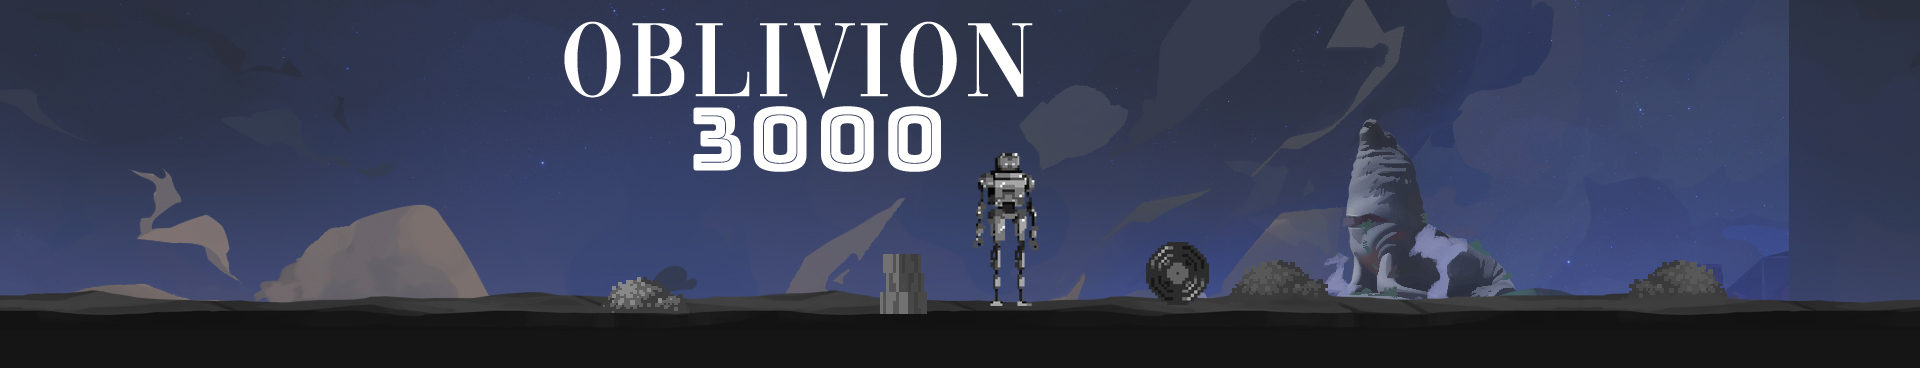
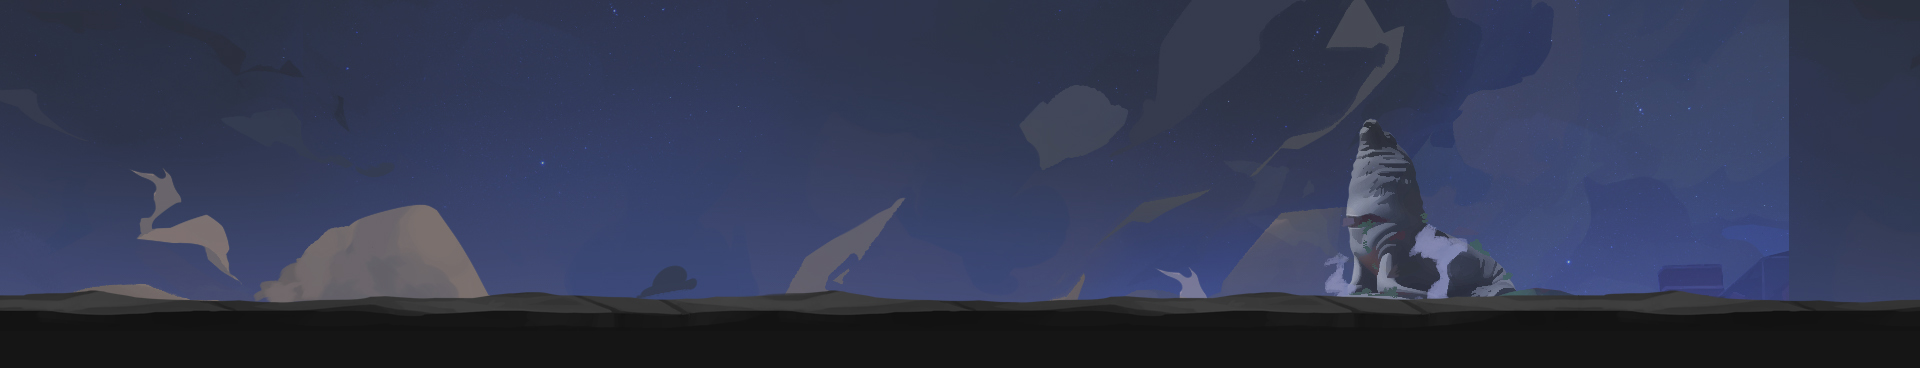
oblivion act

diff --git a/styles/oblivion.css b/styles/oblivion.css
@@ -14,6 +14,7 @@
     top: 60px;
     background-position: center;
     transition: 1s;
+    pointer-events:none;
 }
 
 .oblivion-header-front{
@@ -24,6 +25,20 @@
     top: -70px;
     background-position: center;
     transition: 1s;
+    z-index: 1;
+}
+
+.oblivion-header-title{
+  position: absolute;
+  width: inherit;
+  height: inherit;
+  background-image: url(../img/sec-oblivion/oblivion-header-title.png);
+  background-repeat: no-repeat;
+  top: -87px;
+  left: -160px;
+  background-position: center;
+  transition: 1s;
+  z-index: 0;
 }
 
 .oblivion-header .robot-container{
@@ -44,10 +59,35 @@
 
 @media(max-width:1170px){
   #robot{
-    right: 1% !important;
+    right: -40px !important;
   }
 }
 
+@media(max-width:1100px){
+  #robot{
+    right: 0px !important;
+  }
+}
+
+@media(max-width:990px){
+  #robot{
+    display: none;
+  }
+}
+
+@media(max-width:829px){
+  #robot{
+    display: none;
+  }
+  .oblivion-header-title {
+    top: 30px;
+    left: 0;
+    background-position: center;
+    background-size: contain;
+    max-width: 469px;
+    max-height: 151px;
+  }
+}
 
 /*  CONTENT */
 
@@ -162,10 +202,12 @@ article.abrir{
   display: flex;
   align-items: center;
   margin-right: 9px;
+  width: 30%;
+  max-width: 200px;
 }
 
 .noticia .noticia_img img {
-  width: 200px;
+  width: 100%;
 }
 
 .noticia .noticia_text {
@@ -177,7 +219,7 @@ article.abrir{
   font-family: "TabacGlamG";
   font-weight: 100;
   letter-spacing: 0.17em;
-  width: 100%;
+  width: 70%;
 }
 
 .noticia .noticia_text a {

diff --git a/js/init.js b/js/init.js
@@ -35,6 +35,13 @@
                 let container = document.querySelector(`#${puerta}-container`);
                 container.classList.add("mostrar");
                 document.querySelector("#game").scrollIntoView();
+
+                let buttonScroll = document.querySelector(".scroll-secciones");
+                buttonScroll.classList.add("showButton");
+                buttonScroll.addEventListener("click", function() {
+                    console.log("dadasdasdsa")
+                    buttonScroll.classList.remove("showButton");
+                });
             }
           
         });
@@ -43,6 +50,7 @@
             let {puerta} = e.detail;
             if(puerta !== "inicio"){
                 document.querySelector(`#${puerta}-container`).classList.remove("mostrar");
+                document.querySelector(".scroll-secciones").classList.remove("showButton");
             }
 
             /*

diff --git a/index.html b/index.html
@@ -57,16 +57,17 @@
 
     <div class="game-container" >
         <canvas class="game-canvas" width="400" height="200"></canvas>
+        <div class="scroll-secciones"><a href="#secciones"><img src="./img/up.png"></a></div>
     </div>
 
-    <div class="info-container">
+
+    <div class="info-container" id="secciones">
         <section id="oblivion-container">
 
             <div class="oblivion-header">
                 <div class="robot-container"><img id="robot" src="./img/sec-oblivion/robot.png" alt="" /></div>
-                <div class="oblivion-header-front" style="top: -100px">
-                    
-                </div>
+                <div class="oblivion-header-front" style="top: -100px"></div>
+                <div class="oblivion-header-title"></div>
                 
             </div>
 

diff --git a/styles/style.css b/styles/style.css
@@ -357,6 +357,38 @@ header:hover .hand{
 
 
 
+.scroll-secciones {
+    text-align: center;
+    position: absolute;
+    bottom: 5px;
+    width: 100%;
+    opacity: 0;
+    transition: 1s;
+    pointer-events:none;
+}
+.scroll-secciones img{
+    transform: rotate(180deg);
+}
+
+.scroll-secciones.showButton{
+    pointer-events: initial;
+    opacity: 1 !important;
+    transform: translateY(-5px);
+    animation: lev 3s infinite;
+}
+
+@keyframes lev {
+    0% {
+      transform: translateY(0);
+    }
+    50% {
+      transform: translateY(-5px);
+    }
+    100% {
+        transform: translateY(0);
+      }
+  }
+
 /* SECCIONES */
 .info-container{
     color: #d7d7d7;
